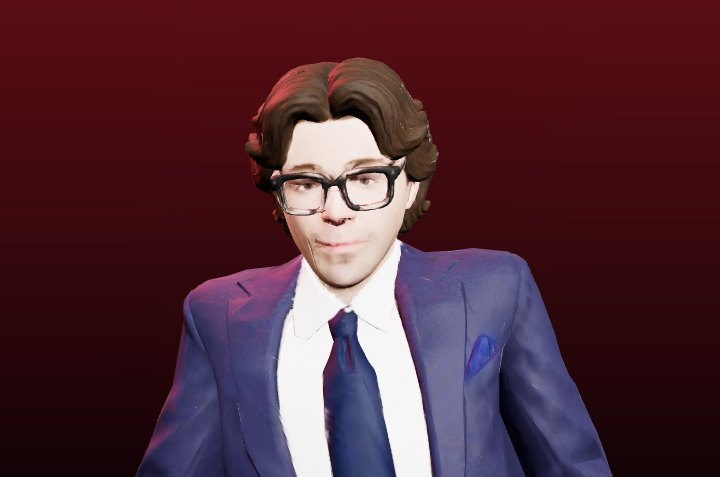
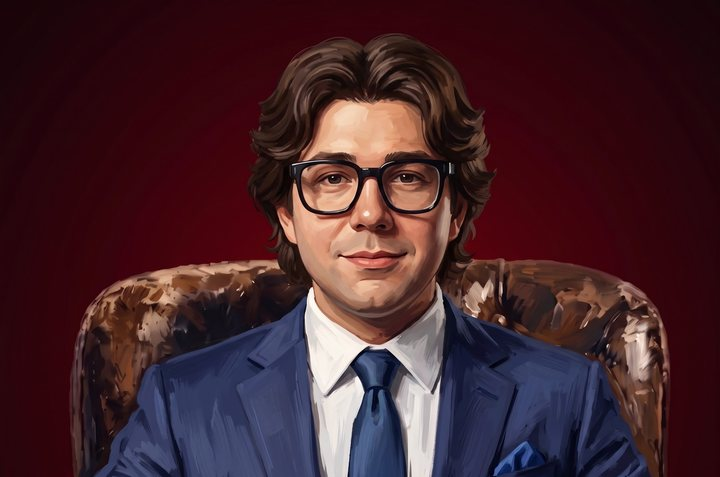
Малахов: рисованный портрет в репликах (вместо рендера модели)
Claude-Session: https://claude.ai/code/session_011AfLC3NSosYLNDMRR5Vo6k

diff --git a/js/config.js b/js/config.js
@@ -240,7 +240,7 @@ export const CHASER = { url: "models/obj/inspector.glb?v=2", height: 1.72, run: 
 // arrest — клип, когда догнал (у Малахова — «Talk Passionately»: горячо говорит, как в студии); caught — текст итога
 export const CHASERS = {
     malakhov: { url: "models/malakhov.glb?v=1", height: 1.8, run: "run", arrest: "talk", hud: "МАЛАХОВ", name: "Малахов",
-        portrait: "img/heroes/malakhov.jpg", faceY: "34%", // лицо в репликах (рендер модели); faceY — где лицо по высоте
+        portrait: "img/heroes/malakhov.jpg?v=2", faceY: "36%", // лицо в репликах (рисованный портрет); faceY — где лицо по высоте
         start: "Пусть говорят! А вы куда так бежите?",
         caught: ["Малахов догнал: «Пусть говорят!»", "Второй удар — и ты в студии у Малахова", "Малахов: «Сенсация! Беглец пойман в прямом эфире»"],
         // погоня «из принципа» (после главы 1, CHASE_GRUDGE) — его реплики вместо Мизулины
